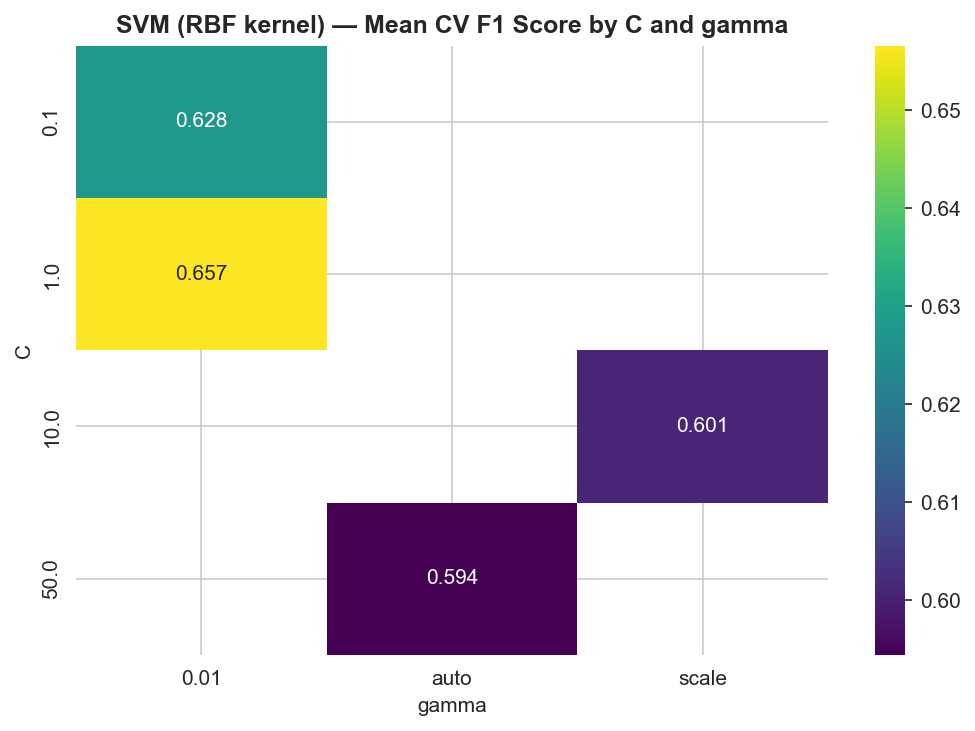
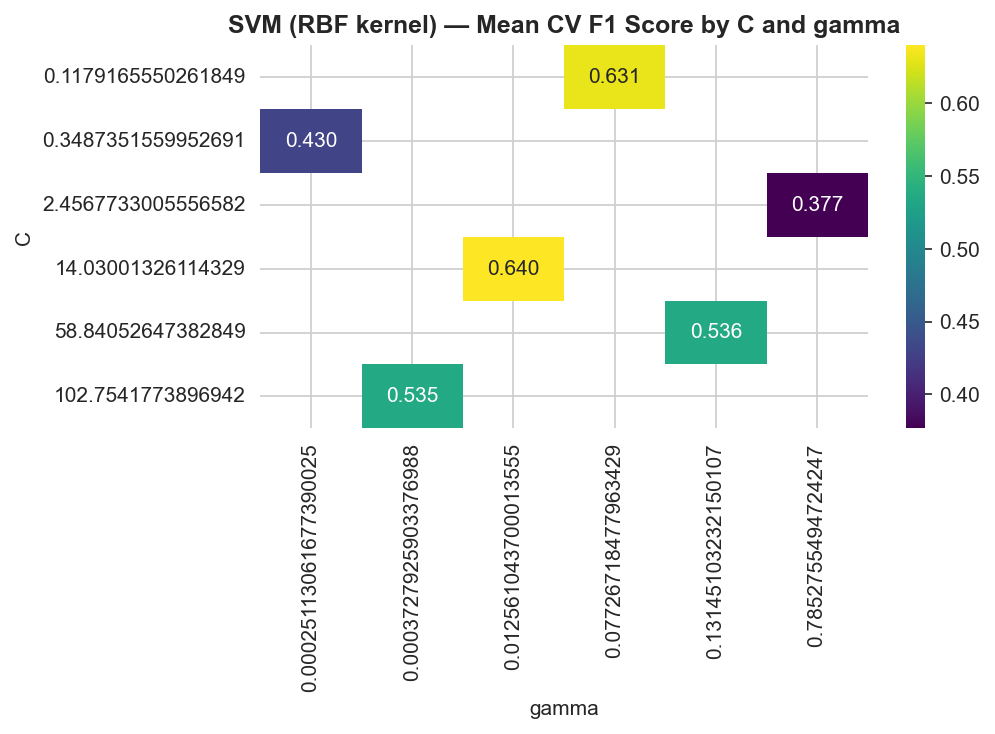
implement SVM model training module with hyperparameter tuning, calibration, and visualization utilities

diff --git a/models/svm_model.py b/models/svm_model.py
@@ -79,6 +79,7 @@ from sklearn.svm import SVC
 
 from src.data_preprocessing import build_preprocessor, preprocess_data
 from src.utils import evaluate_model, generate_shap_explanation, print_metrics, save_model
+from scipy.stats import loguniform
 
 sns.set_style("whitegrid")
 
@@ -88,12 +89,34 @@ sns.set_style("whitegrid")
 # NOTE: 'poly' is intentionally left out of the default grid — it rarely
 # beats rbf/linear on this dataset and multiplies search time via the extra
 # 'degree' axis. Pass a custom param_grid to explore it if needed.
-DEFAULT_PARAM_GRID = {
-    "svm__C": [0.1, 1, 10,50,100],
-    "svm__kernel": ["rbf", "linear"],
-    "svm__gamma": ["scale", "auto",0.01,0.1],
-    "svm__class_weight": ["balanced"],
-}
+SVM_PARAM_DISTRIBUTIONS = [
+    # RBF kernel
+    {
+        "svm__kernel": ["rbf"],
+        "svm__C": loguniform(0.1, 300),
+        "svm__gamma": loguniform(1e-4, 1),
+        "svm__class_weight": [
+            None,
+            "balanced",
+            {0: 1, 1: 1.5},
+            {0: 1, 1: 2},
+            {0: 1, 1: 3},
+        ],
+    },
+
+    # Linear kernel
+    {
+        "svm__kernel": ["linear"],
+        "svm__C": loguniform(0.01, 300),
+        "svm__class_weight": [
+            None,
+            "balanced",
+            {0: 1, 1: 1.5},
+            {0: 1, 1: 2},
+            {0: 1, 1: 3},
+        ],
+    },
+]
 
 
 def _save_show(fig: plt.Figure, name: str, save_dir: str | None, show: bool) -> None:
@@ -152,10 +175,10 @@ def train_svm(
     random_state: int = 42,
     output_path: str | Path | None = "saved_models/svm_model.pkl",
     verbose: int = 2,
-    n_jobs: int = -1,
+    n_jobs: int = -2,
 ):
     pipeline = build_svm_pipeline(use_smote=use_smote, random_state=random_state)
-    grid = param_grid or DEFAULT_PARAM_GRID
+    grid = param_grid or SVM_PARAM_DISTRIBUTIONS
     stratified_cv = StratifiedKFold(n_splits=cv, shuffle=True, random_state=random_state)
 
     if search == "random":
@@ -287,7 +310,7 @@ def cross_validate_svm(model: Pipeline, X, y, cv: int = 5, random_state: int = 4
     }
 
     cv_results = cross_validate(
-        model, X, y, cv=stratified_cv, scoring=scoring, n_jobs=-1, return_train_score=False
+        model, X, y, cv=stratified_cv, scoring=scoring, n_jobs=-2, return_train_score=False
     )
 
     rows = []
@@ -353,7 +376,7 @@ def get_svm_feature_importance(
         )
 
     result = permutation_importance(
-        model, X_sample, y_sample, n_repeats=n_repeats, random_state=random_state, n_jobs=-1
+        model, X_sample, y_sample, n_repeats=n_repeats, random_state=random_state, n_jobs=-2
     )
 
     # Safely retrieve feature names from DataFrame or generate generic names
@@ -451,7 +474,7 @@ def plot_svm_learning_curve(
             y,
             cv=cv,
             scoring=scoring,
-            n_jobs=-1,
+            n_jobs=-2,
             train_sizes=np.linspace(0.1, 1.0, 6),
             random_state=42,
         )
@@ -598,7 +621,7 @@ if __name__ == "__main__":
 
     # ── 2. Train & save ─────────────────────────────────────────────────────
     save_path = project_root / "saved_models" / "svm_model.pkl"
-    model, search_obj = train_svm(X_train, y_train, output_path=save_path)
+    model, search_obj = train_svm(X_train, y_train, output_path=save_path,param_grid=SVM_PARAM_DISTRIBUTIONS,)
 
     # ── 3. Core metrics ─────────────────────────────────────────────────────
     metrics = evaluate_model(model, X_test, y_test)
@@ -630,16 +653,16 @@ if __name__ == "__main__":
     # generate_shap_explanation() automatically uses KernelExplainer for SVC
     # (non-tree estimator), operating on already-transformed numpy arrays
     # (post-preprocessor) so no DataFrame column passthrough is needed.
-    # print("\n[__main__] Generating SVM SHAP explanation plots...")
-    # try:
-    #     generate_shap_explanation(
-    #         model=model,
-    #         X_test=X_test,
-    #         max_display=15,
-    #         save_dir=PLOT_DIR,
-    #         prefix="svm_",
-    #         show=False,
-    #     )
-    #     print("[__main__] SHAP plots saved successfully.")
-    # except Exception as exc:
-    #     print(f"[__main__] SHAP explanation failed (non-fatal): {exc}")
+    print("\n[__main__] Generating SVM SHAP explanation plots...")
+    try:
+        generate_shap_explanation(
+            model=model,
+            X_test=X_test,
+            max_display=15,
+            save_dir=PLOT_DIR,
+            prefix="svm_",
+            show=False,
+        )
+        print("[__main__] SHAP plots saved successfully.")
+    except Exception as exc:
+        print(f"[__main__] SHAP explanation failed (non-fatal): {exc}")
